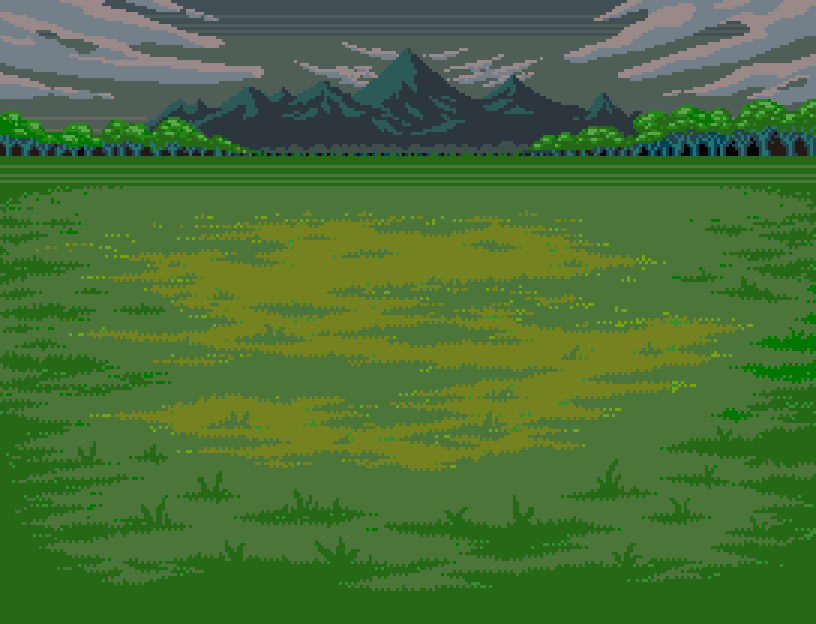
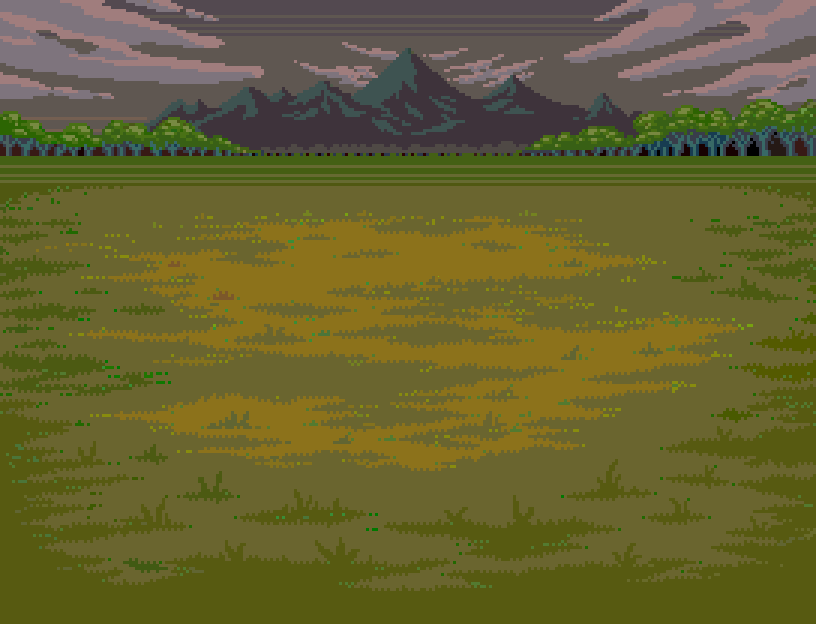
Backgound2 이미지 수정

diff --git a/프로젝트/FrameWork적용/class_BOSS2_BULLET3.py b/프로젝트/FrameWork적용/class_BOSS2_BULLET3.py
@@ -31,7 +31,7 @@ class BOSS2_BULLET3:
 
     def __init__(self,x = WINX//2,y=WINY//2,degree = 0):
         if BOSS2_BULLET3.image == None:
-            BOSS2_BULLET3.image = load_image('Fire.png')
+            BOSS2_BULLET3.image = load_image('Boss2Bullet3.png')
 
         self.x,self.y = x,y
         self.r = 50
@@ -46,7 +46,7 @@ class BOSS2_BULLET3:
     def draw(self):
         #BOSS2_BULLET3.image.rotate_draw(math.radians(self.degree), self.x, self.y, SIZE, SIZE)
 
-        BOSS2_BULLET3.image.clip_composite_draw(int(BOSS2_BULLET3.frame) * SIZE//2, 0, SIZE//2, SIZE//2, math.radians(self.degree),
+        BOSS2_BULLET3.image.clip_composite_draw(int(BOSS2_BULLET3.frame) * SIZE//2, 0, SIZE//2, SIZE//2, math.radians(self.dir*self.degree),
                                        'v', self.x, self.y, SIZE, SIZE)
 
     def update(self):
